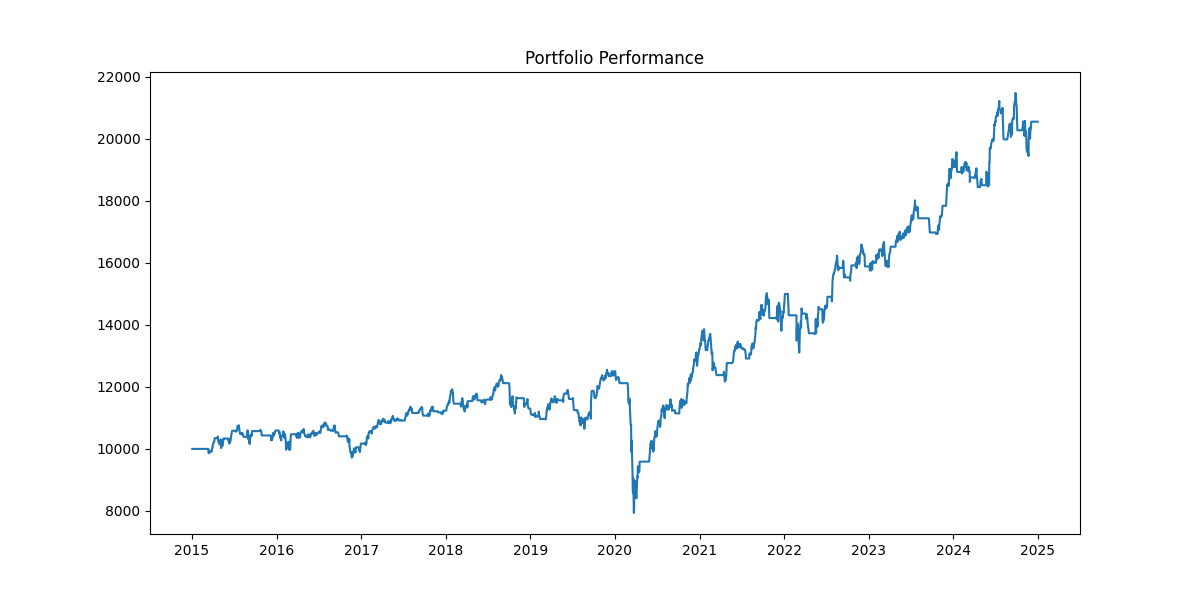
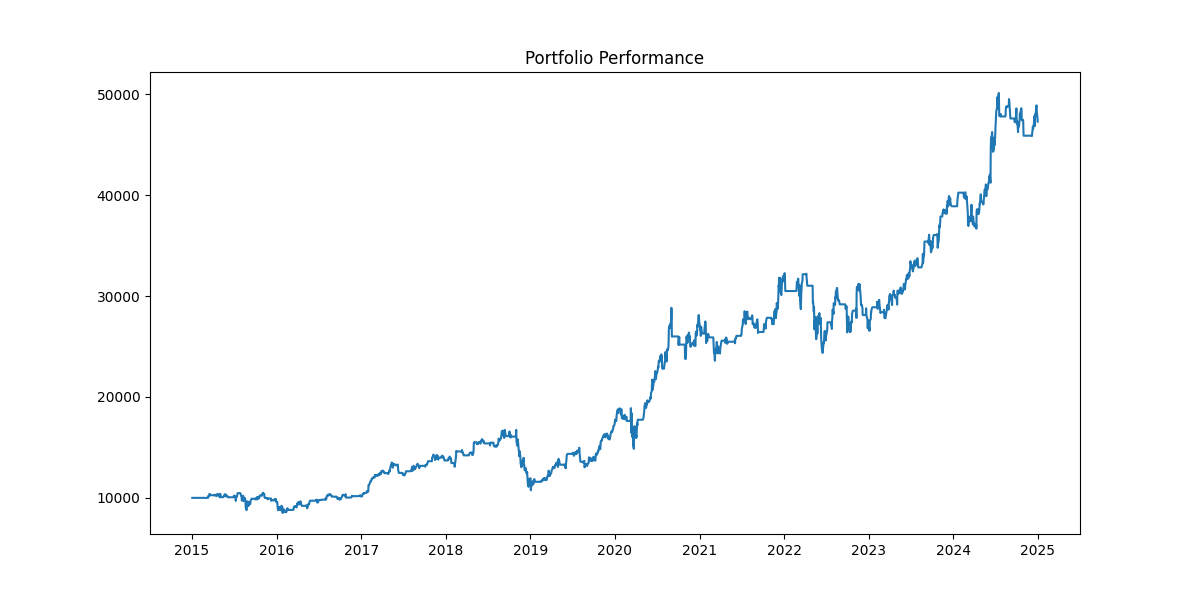
Using A More accurate single stock than index fund

diff --git a/main.py b/main.py
@@ -4,7 +4,7 @@ from src.visualization import plot_results
 from src.strategy import generate_signals
 from src.backtest import run_backtest
 def main():
-    data = load_data("^NSEI", "2015-01-01", "2025-01-01")
+    data = load_data("AAPL", "2015-01-01", "2025-01-01")
 
     data = add_indicator(data, 20)   # if you already have it
     data = generate_signals(data)
